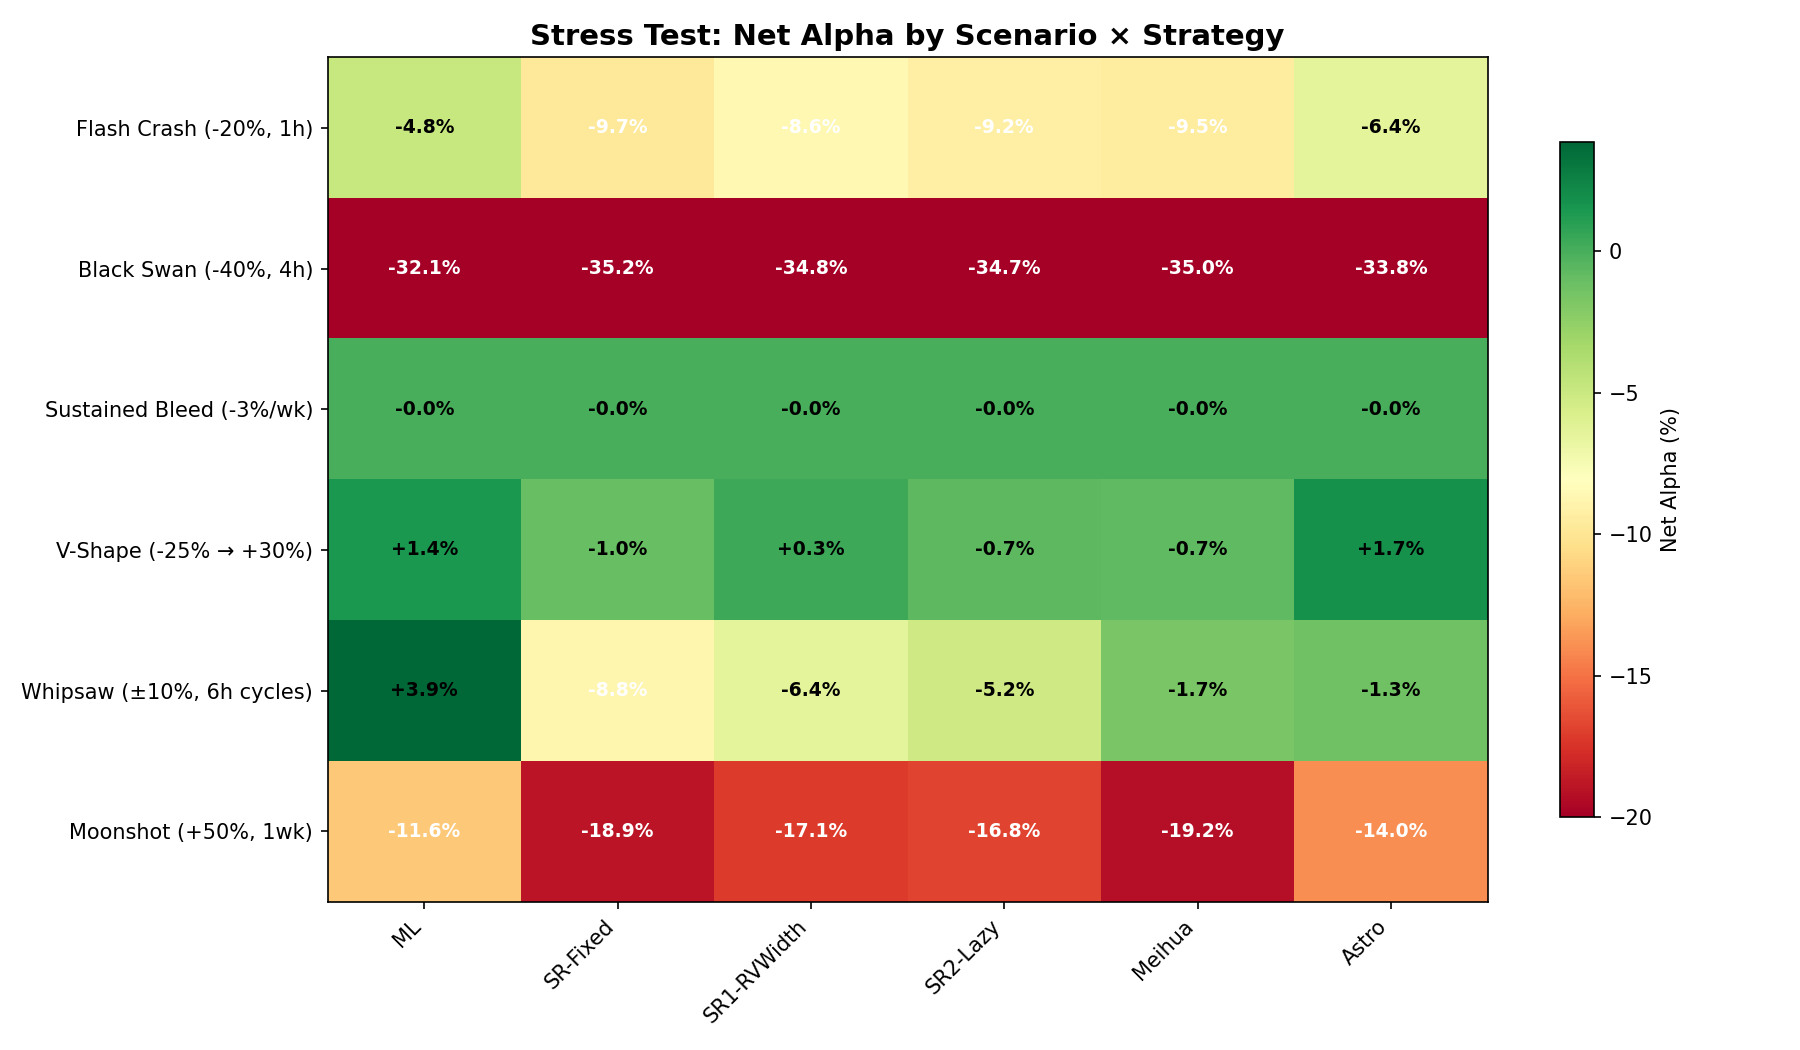
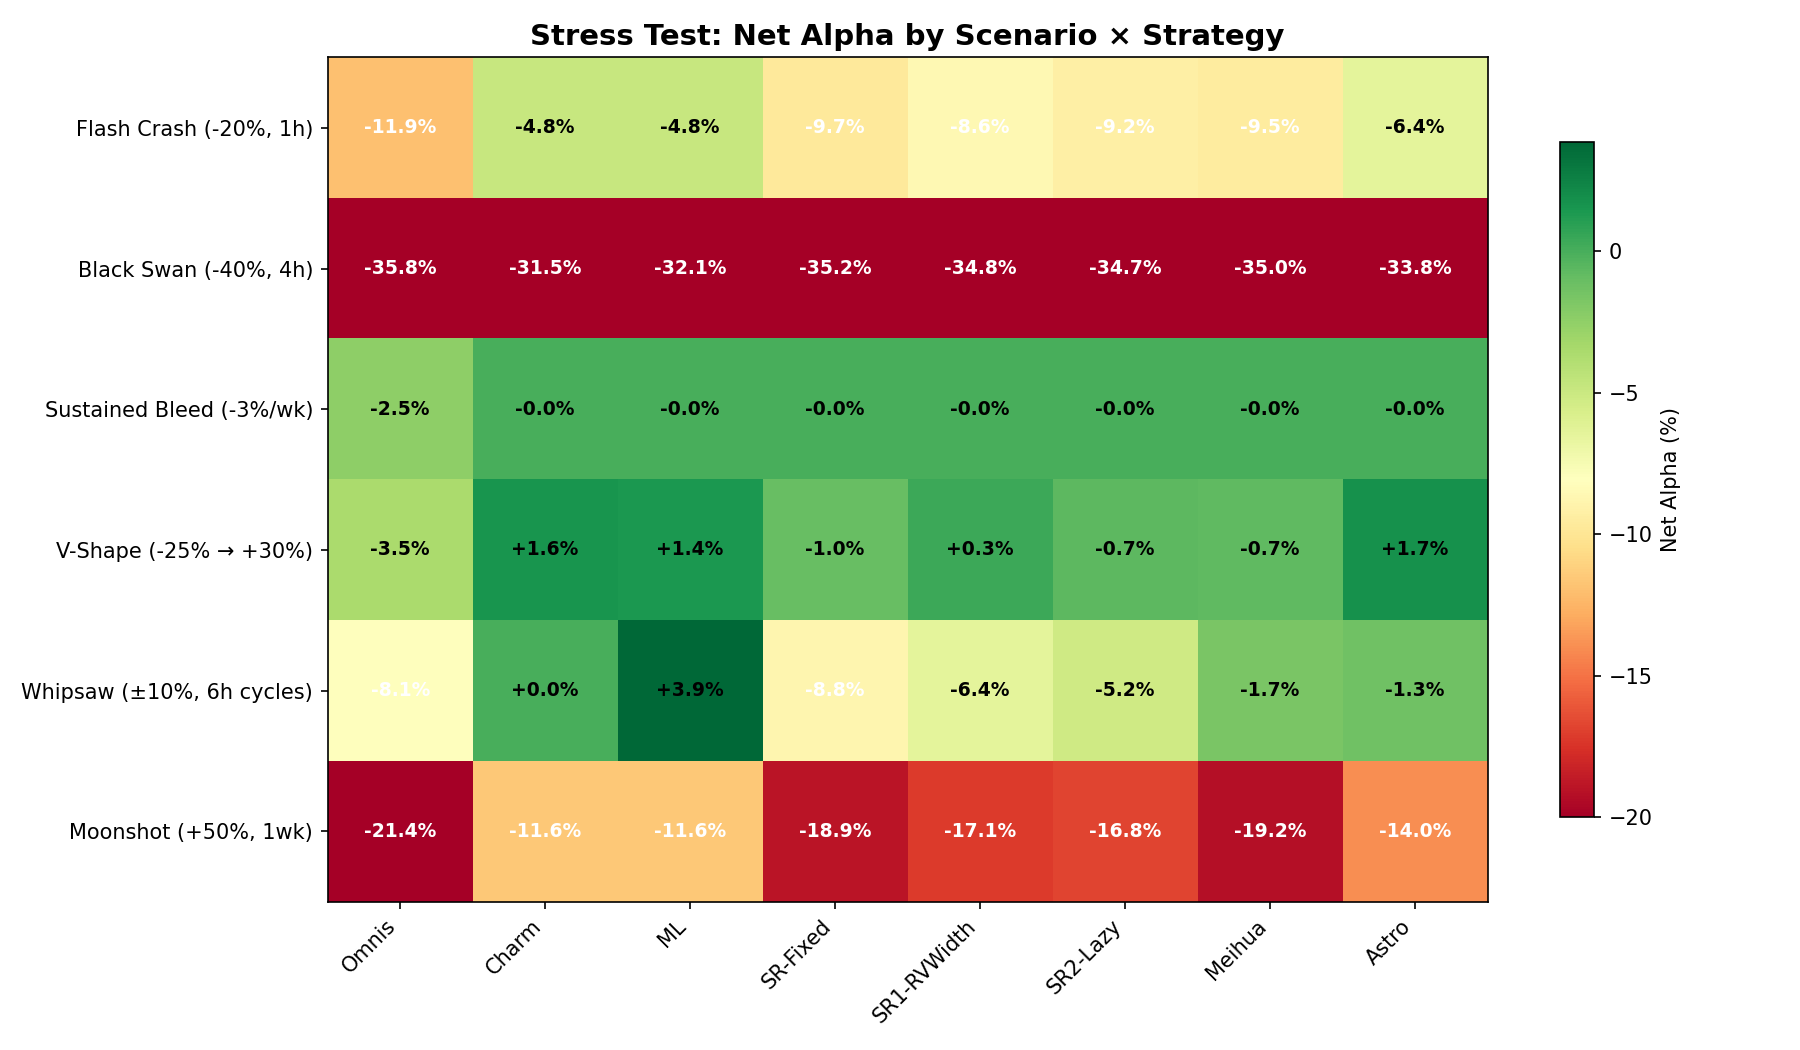
feat: stress test — 8 strategies (add Omnis + Charm)

diff --git a/stress_test.py b/stress_test.py
@@ -27,6 +27,7 @@ from single_range_sweep import run_single_range
 from rv_width_strategy import run_rv_width, run_lazy_return
 from meihua_strategy import run_meihua_for_mc
 from astro_strategy import run_astro
+from mc_all_v2 import run_omnis, run_charm
 
 BASE_DIR = Path(__file__).parent
 
@@ -219,6 +220,20 @@ def run_scenario(scenario_name, prices, cfg, init_usd):
 
     results = {}
 
+    # Omnis (ATR-style: narrow ±7.4%, frequent rebalance every 6000 blocks)
+    try:
+        r = run_omnis(prices, swap_tick_agg, cfg, init_usd, {})
+        results["Omnis"] = r
+    except:
+        results["Omnis"] = {"alpha": 0, "rebalances": 0, "vault_return": 0}
+
+    # Charm (3-layer, no trend shift)
+    try:
+        r = run_charm(prices, swap_tick_agg, cfg, init_usd, {})
+        results["Charm"] = r
+    except:
+        results["Charm"] = {"alpha": 0, "rebalances": 0, "vault_return": 0}
+
     # ML 3-Layer
     try:
         r = run_sim(prices, swap_agg, swap_tick_agg, cfg, init_usd, {})
@@ -294,7 +309,7 @@ def main():
     }
 
     all_results = {}
-    strategies = ["ML", "SR-Fixed", "SR1-RVWidth", "SR2-Lazy", "Meihua", "Astro"]
+    strategies = ["Omnis", "Charm", "ML", "SR-Fixed", "SR1-RVWidth", "SR2-Lazy", "Meihua", "Astro"]
 
     print(f"{'='*70}")
     print(f"  CLAMM Stress Test Analysis")
